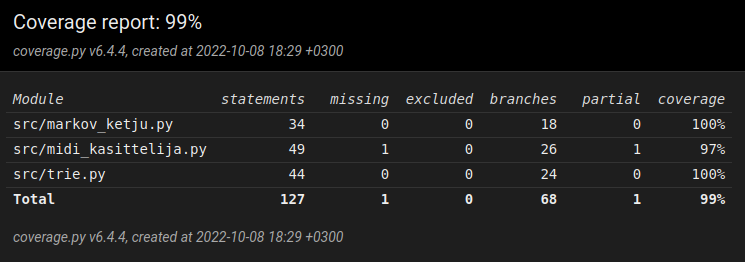
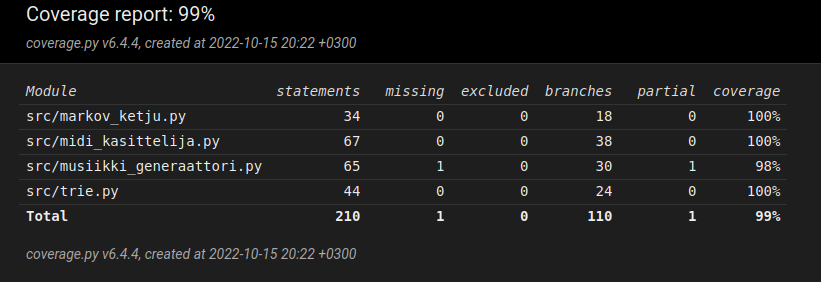
Lisätty musiikki_generaattorille testit

diff --git a/src/tests/musiikki_generaattori_test.py b/src/tests/musiikki_generaattori_test.py
@@ -1,0 +1,30 @@
+import os
+import unittest
+from musiikki_generaattori import musiikki_generaattori
+from midi_kasittelija import lue_midi, kirjoita_midi 
+
+class TestMusiikkiGeneraattori(unittest.TestCase):
+    def test_kokonaisuus(self):
+        testi_polku = "src/tests/testiMidi.mid"
+        if os.path.exists(testi_polku):
+            os.remove(testi_polku)
+
+        nuotit = [60, 62, 64, 66, 68, 60, 62, None]
+        kirjoita_midi(testi_polku, nuotit)
+
+        musiikki_generaattori.lue_opetusdata("src/tests/testiMidi.*")
+
+        musiikki_generaattori.valmistele_ketju("C4")
+        musiikki_generaattori.generoi_nuotteja(4)
+        musiikki_generaattori.kirjoita_midi(testi_polku)
+        generoidut_nuotit = lue_midi(testi_polku)[0]
+        self.assertEqual(generoidut_nuotit, nuotit[:4])
+
+        musiikki_generaattori.valmistele_ketju("C4", aste=2)
+        musiikki_generaattori.generoi_nuotteja(4)
+        musiikki_generaattori.kirjoita_midi(testi_polku)
+        generoidut_nuotit = lue_midi(testi_polku)[0]
+        self.assertEqual(generoidut_nuotit, nuotit[:4])
+
+        musiikki_generaattori.valmistele_ketju("C5")
+        self.assertEqual(musiikki_generaattori.generoi_nuotteja(10), 1)

diff --git a/src/musiikki_generaattori.py b/src/musiikki_generaattori.py
@@ -90,6 +90,7 @@ class MusiikkiGeneraattori:
         for _ in range(nuotteja):
             # Tunnistaa jos edellinen Markovin ketjun iteraatio palautti None
             if not self._nuotit[-1]:
+                self._nuotit = self._nuotit[:-1]
                 break
             self._nuotit.append(self._ketju.seuraava())
 
